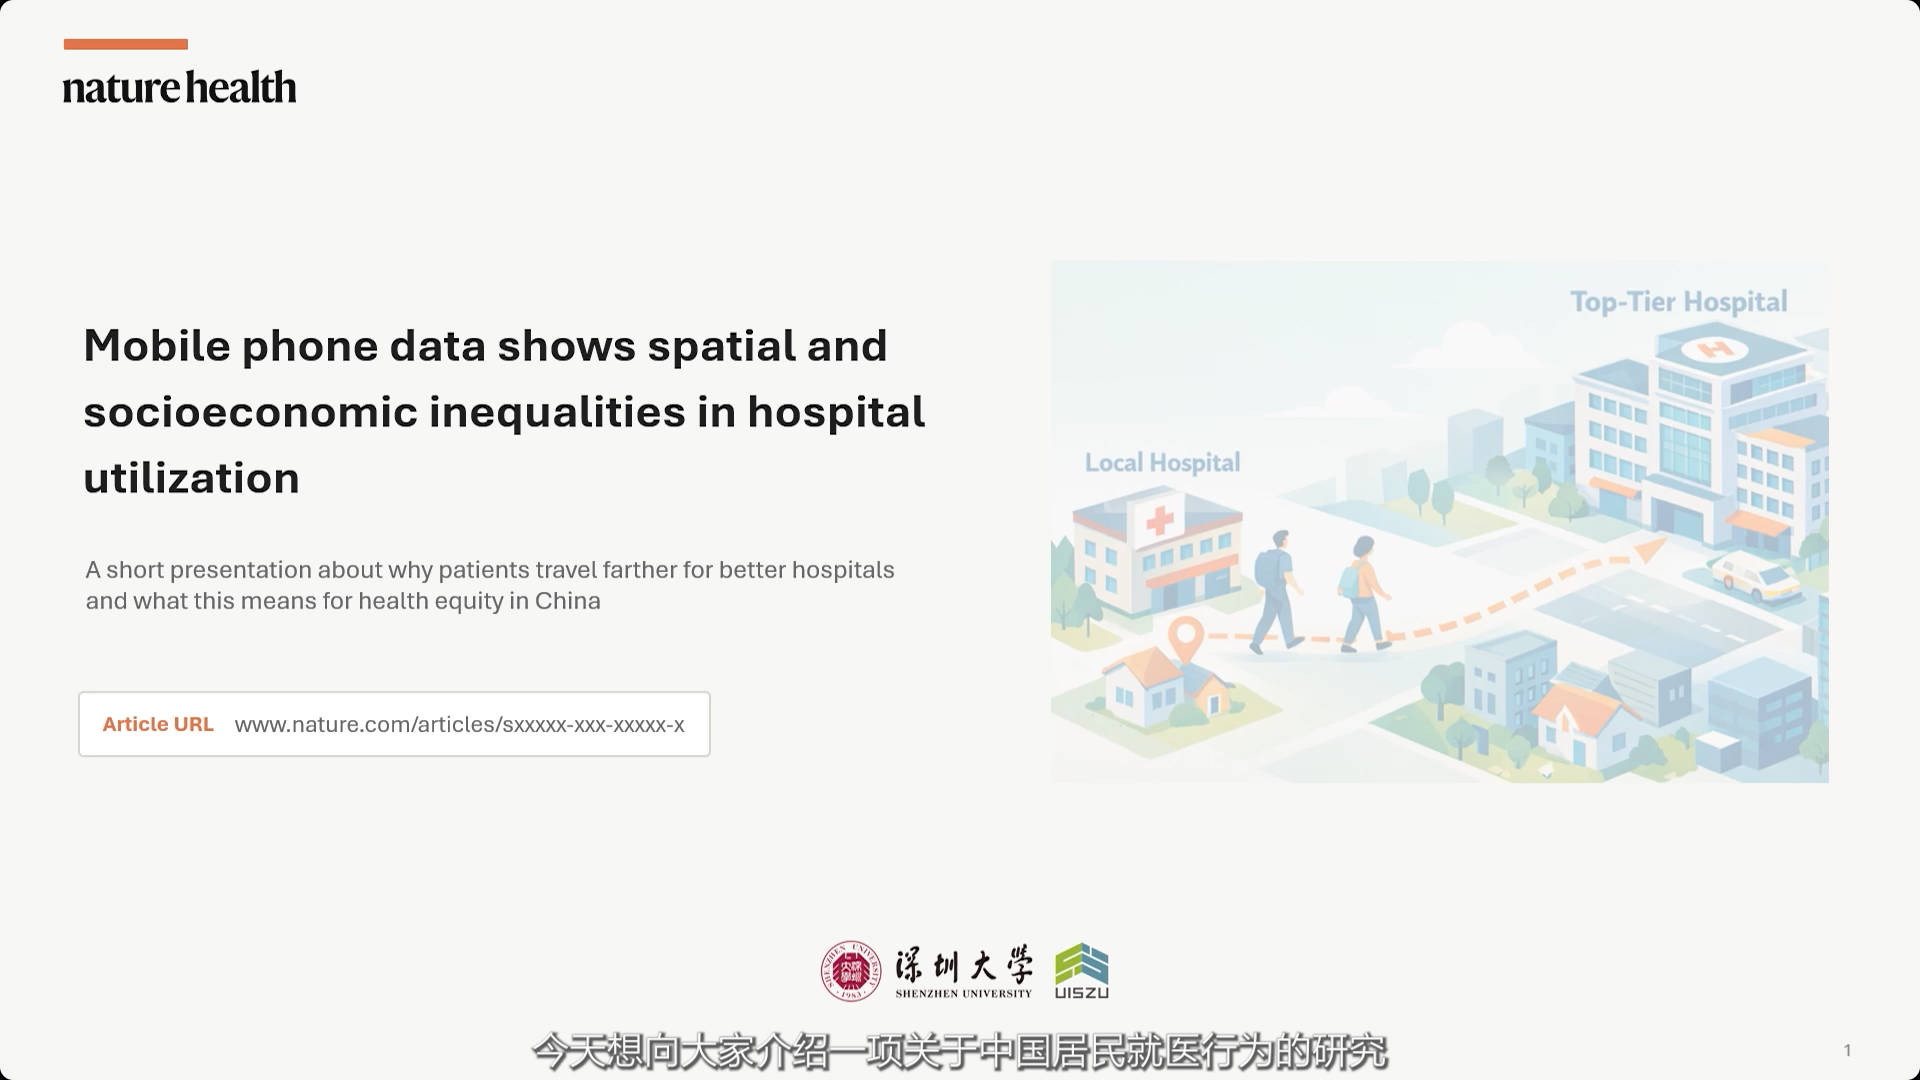
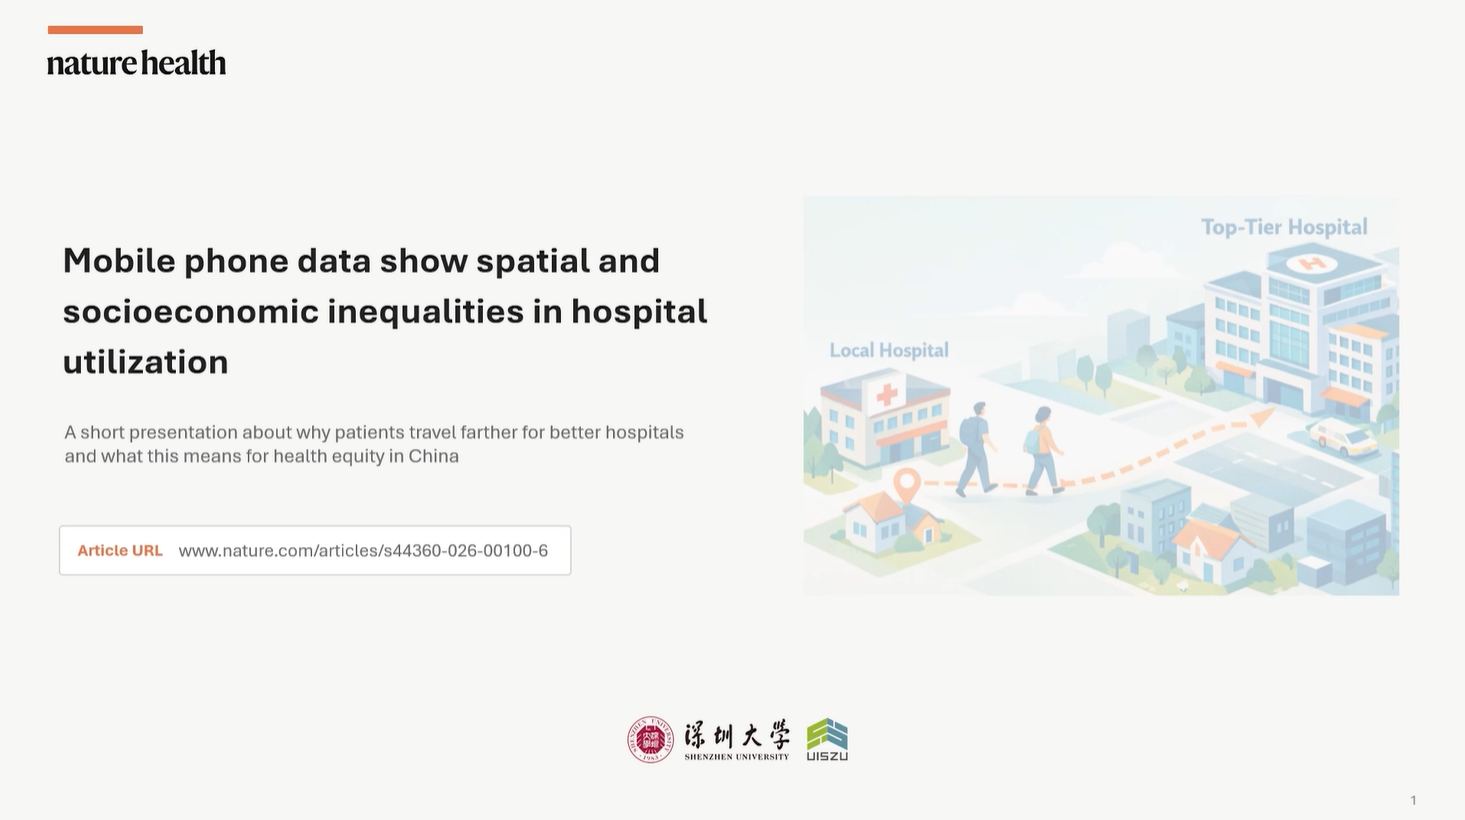
fix: 更新论文链接为正式发表地址

diff --git a/index.html b/index.html
@@ -371,7 +371,7 @@
                     <h3 class="pub-title">Mobile phone data shows spatial and socioeconomic inequalities in hospital utilization</h3>
                     <p class="pub-journal">Nature Health (2026)</p>
                 </div>
-                <a href="https://github.com/Guoke2022/Hospital-Bypass" class="pub-link" target="_blank" title="Read Paper">
+                <a href="https://www.nature.com/articles/s44360-026-00100-6" class="pub-link" target="_blank" title="Read Paper">
                     <svg viewBox="0 0 24 24" fill="none" stroke="currentColor" stroke-width="2">
                         <path d="M18 13v6a2 2 0 0 1-2 2H5a2 2 0 0 1-2-2V8a2 2 0 0 1 2-2h6"/>
                         <polyline points="15 3 21 3 21 9"/>
